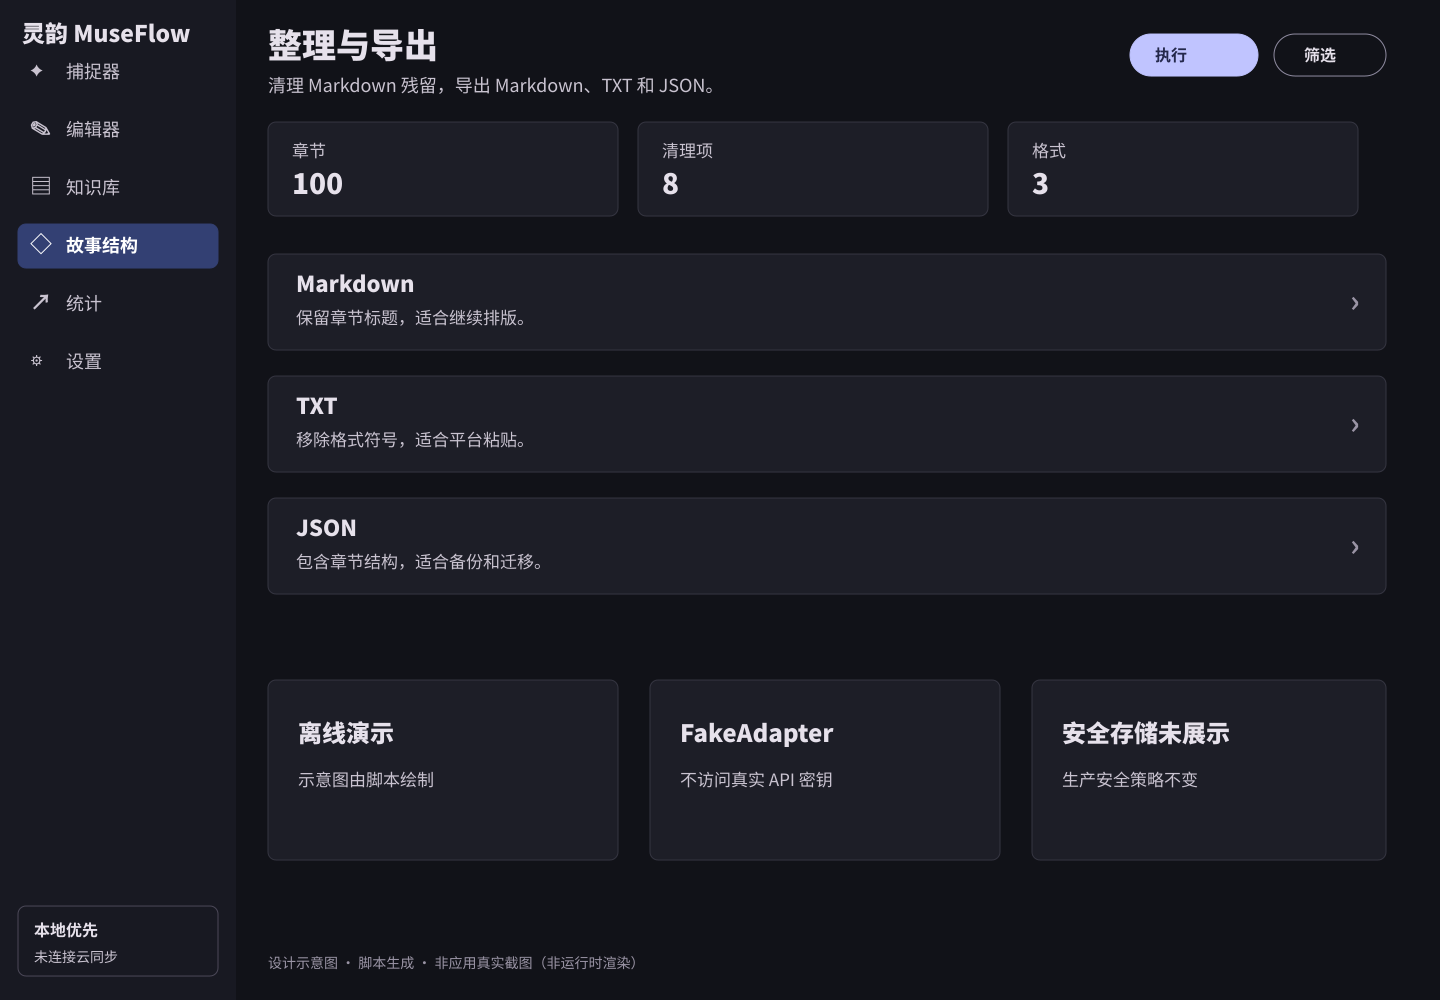
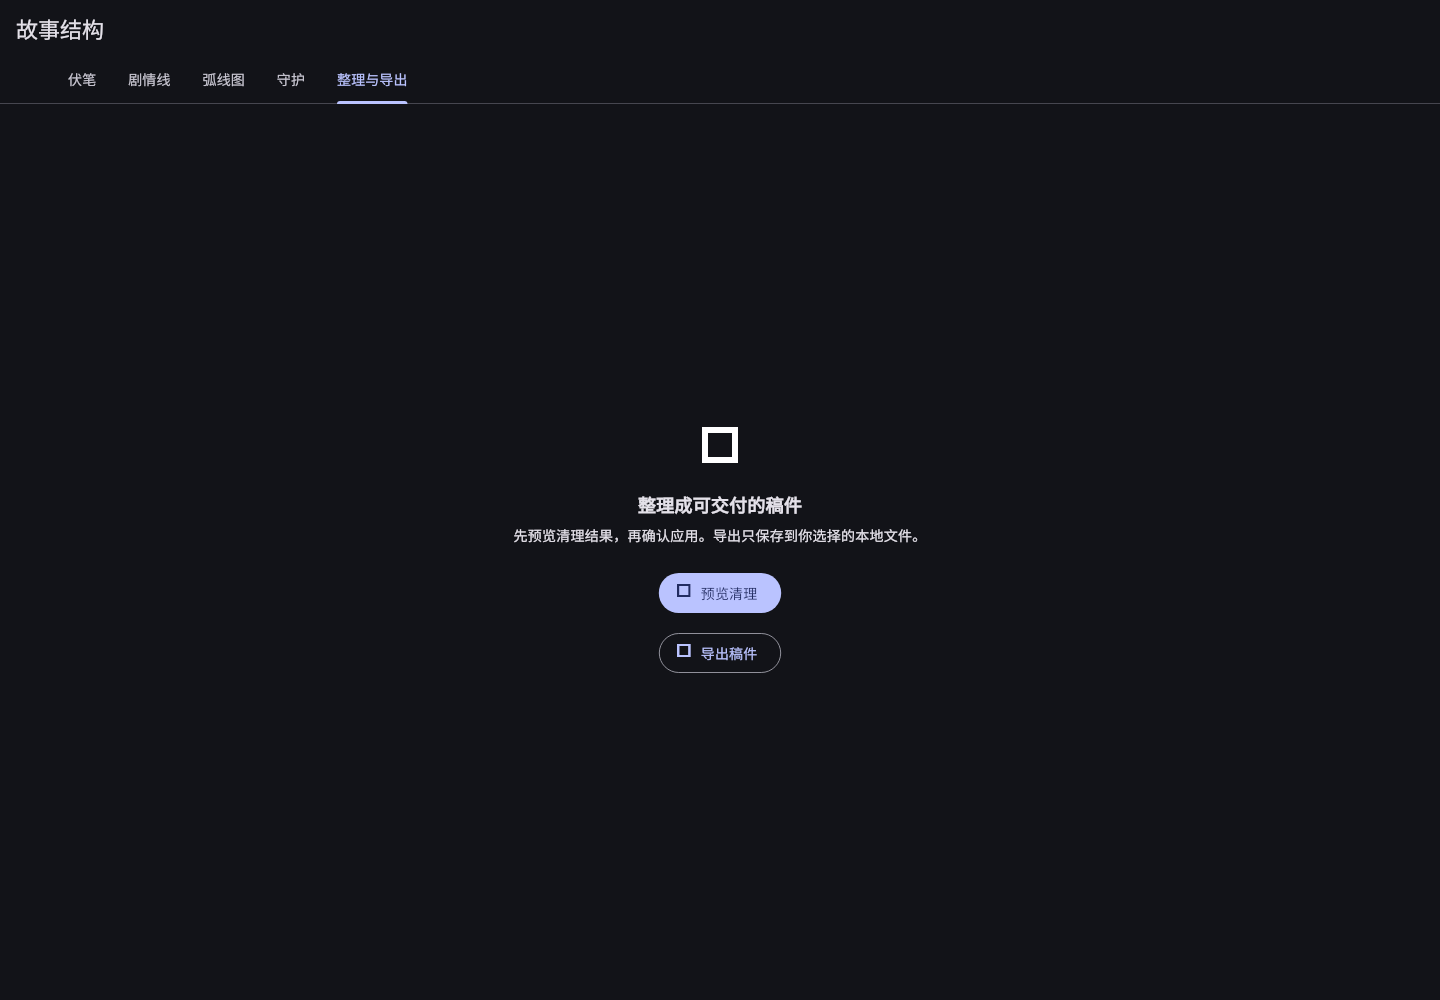
docs(readme): real golden render replaces export-cleanup mockup
README #14 整理与导出 → StoryStructurePage tab4 真实 widget golden 渲染（替代 SVG mockup）。
tap '整理与导出' tab + foreshadowing override 保初始帧。README.md/en.md disclosure 清单 4 处
加入「整理与导出(14)/Finish & export(14)」。

diff --git a/test/readme_screenshots/export_cleanup_test.dart b/test/readme_screenshots/export_cleanup_test.dart
@@ -1,0 +1,126 @@
+/// Real widget screenshot generator for the README export-cleanup image (#14).
+///
+/// Renders the **actual** [StoryStructurePage] on the 整理与导出 (finish & export)
+/// tab: tab 4 of the 5-tab structure page. `_FinishExportSection` is a purely
+/// static section (icon + headline + description + '预览清理' FilledButton +
+/// '导出稿件' OutlinedButton) with NO provider dependency on its render path —
+/// the dialogs it launches read providers only on tap.
+///
+/// Default tab is 0 (伏笔); the test switches to tab 4 by tapping the
+/// '整理与导出' tab label then `pumpAndSettle`. `foreshadowingNotifierProvider`
+/// is also overridden so the initial frame (tab 0) renders cleanly before the
+/// switch (the foreshadowing section is briefly visible during the slide).
+///
+/// Shares the bundled universal GB2312 subset `test_assets/noto_sans_sc_subset.ttf`.
+///
+/// Regenerate after changing the page or seed data:
+///   flutter test test/readme_screenshots/export_cleanup_test.dart --update-goldens
+library;
+
+import 'dart:io';
+
+import 'package:flutter/material.dart';
+import 'package:flutter/services.dart';
+import 'package:flutter_riverpod/flutter_riverpod.dart';
+import 'package:flutter_test/flutter_test.dart';
+import 'package:museflow/core/presentation/providers.dart';
+import 'package:museflow/features/story_structure/application/foreshadowing_notifier.dart';
+import 'package:museflow/features/story_structure/domain/foreshadowing_entry.dart';
+import 'package:museflow/features/story_structure/presentation/story_structure_page.dart';
+
+void main() {
+  setUpAll(() async {
+    final bytes = await File('test_assets/noto_sans_sc_subset.ttf').readAsBytes();
+    final loader = FontLoader('Noto Sans CJK SC');
+    loader.addFont(Future.value(ByteData.sublistView(bytes)));
+    await loader.load();
+  });
+
+  testWidgets('StoryStructurePage (整理与导出) renders a real 1440x1000 screenshot',
+      (tester) async {
+    tester.view.physicalSize = const Size(1440, 1000);
+    tester.view.devicePixelRatio = 1.0;
+    addTearDown(tester.view.resetPhysicalSize);
+    addTearDown(tester.view.resetDevicePixelRatio);
+
+    await tester.pumpWidget(
+      ProviderScope(
+        overrides: [
+          // Tab 0 (伏笔) is briefly visible before the switch; seed it so the
+          // initial frame is clean. The captured tab 4 is static (no provider).
+          foreshadowingNotifierProvider.overrideWith(
+            () => _SeededForeshadowingNotifier(),
+          ),
+        ],
+        child: MaterialApp(
+          debugShowCheckedModeBanner: false,
+          theme: _screenshotTheme(),
+          home: const StoryStructurePage(),
+        ),
+      ),
+    );
+    await tester.pumpAndSettle();
+
+    // Switch to tab 4 (整理与导出). Tapping the tab label drives the
+    // TabBarView slide; pumpAndSettle completes it.
+    await tester.tap(find.text('整理与导出'));
+    await tester.pumpAndSettle();
+
+    // Prove the static export section rendered.
+    expect(find.text('整理成可交付的稿件'), findsOneWidget);
+    expect(find.text('预览清理'), findsOneWidget);
+    expect(find.text('导出稿件'), findsOneWidget);
+
+    await expectLater(
+      find.byType(StoryStructurePage),
+      matchesGoldenFile('../../docs/readme/screenshots/14-export-cleanup.png'),
+    );
+  });
+}
+
+/// Seeded ForeshadowingNotifier (mirrors #10) so the initial tab-0 frame is
+/// clean before switching to tab 4.
+class _SeededForeshadowingNotifier extends ForeshadowingNotifier {
+  @override
+  Future<List<ForeshadowingEntry>> build() async {
+    final created = _created;
+    return <ForeshadowingEntry>[
+      ForeshadowingEntry(
+        id: 'f1',
+        title: '古剑低鸣之谜',
+        mode: ForeshadowingMode.detailed,
+        status: ForeshadowingStatus.planted,
+        plantedChapter: 1,
+        sourceExcerpt: '林风在山门前听见古剑低鸣',
+        createdAt: created,
+      ),
+      ForeshadowingEntry(
+        id: 'f2',
+        title: '弃剑峰旧约',
+        mode: ForeshadowingMode.simple,
+        status: ForeshadowingStatus.developing,
+        plantedChapter: 20,
+        sourceExcerpt: '第八十章前揭开弃剑峰旧约',
+        createdAt: created,
+      ),
+    ];
+  }
+}
+
+final DateTime _created = DateTime(2026, 6, 1, 9, 30);
+
+ThemeData _screenshotTheme() {
+  final colorScheme = ColorScheme.fromSeed(
+    seedColor: Colors.indigo,
+    brightness: Brightness.dark,
+  );
+  final base = Typography.material2021().white.apply(fontFamily: 'Noto Sans CJK SC');
+  return ThemeData(
+    colorScheme: colorScheme,
+    useMaterial3: true,
+    textTheme: base.apply(
+      bodyColor: colorScheme.onSurface,
+      displayColor: colorScheme.onSurface,
+    ),
+  );
+}

diff --git a/README.en.md b/README.en.md
@@ -36,7 +36,7 @@ The Chinese name, 灵韵, means the spirit and rhythm of inspiration. MuseFlow c
 
 ## User Journey & UI Mockups
 
-The images below illustrate each feature module. The **Manuscript library** (1st image), the **Capture inbox** (2nd image), the **Character cards** (6th image), the **World settings** (7th image), the **Skill rules** (9th image), the **Foreshadowing** (10th image), the **Writing stats** (15th image), the **Token audit** (16th image), the **Analysis reports hub** (17th image), the **Report details** (18th image), the **Settings** (19th image), the **AI providers** (20th image) and the **AI phrase filter** (21st image) are real widget renders, deterministically produced by the golden tests under `test/readme_screenshots/` (with a bundled Noto Sans CJK SC subset for cross-platform-consistent Chinese, using offline demo data); the rest are design mockups programmatically drawn by `scripts/generate_readme_screenshots.mjs` (SVG → PNG, not live renders). We follow a xianxia serial author's journey to walk through idea capture, manuscript management, chapter writing, knowledge management, structure tracking, analytics, and model configuration. All images use offline demo data and never read real API keys; real screenshots are being migrated page-by-page from mockups via golden tests.
+The images below illustrate each feature module. The **Manuscript library** (1st image), the **Capture inbox** (2nd image), the **Character cards** (6th image), the **World settings** (7th image), the **Skill rules** (9th image), the **Foreshadowing** (10th image), the **Finish & export** (14th image), the **Writing stats** (15th image), the **Token audit** (16th image), the **Analysis reports hub** (17th image), the **Report details** (18th image), the **Settings** (19th image), the **AI providers** (20th image) and the **AI phrase filter** (21st image) are real widget renders, deterministically produced by the golden tests under `test/readme_screenshots/` (with a bundled Noto Sans CJK SC subset for cross-platform-consistent Chinese, using offline demo data); the rest are design mockups programmatically drawn by `scripts/generate_readme_screenshots.mjs` (SVG → PNG, not live renders). We follow a xianxia serial author's journey to walk through idea capture, manuscript management, chapter writing, knowledge management, structure tracking, analytics, and model configuration. All images use offline demo data and never read real API keys; real screenshots are being migrated page-by-page from mockups via golden tests.
 
 ### 1. Manage Multiple Works
 
@@ -167,7 +167,7 @@ flutter test
 flutter build web --release
 ```
 
-This README's showcase material: the **Manuscript library** (01), the **Capture inbox** (02), the **Character cards** (06), the **World settings** (07), the **Skill rules** (09), the **Foreshadowing** (10), the **Writing stats** (15), the **Token audit** (16), the **Analysis reports hub** (17), the **Report details** (18), the **Settings** (19), the **AI providers** (20) and the **AI phrase filter** (21) are real widget renders (generated by golden tests), the rest are design mockups drawn by `scripts/generate_readme_screenshots.mjs` (SVG → PNG). All use offline demo data with no real API keys; real screenshots are being migrated page-by-page from mockups via golden tests.
+This README's showcase material: the **Manuscript library** (01), the **Capture inbox** (02), the **Character cards** (06), the **World settings** (07), the **Skill rules** (09), the **Foreshadowing** (10), the **Finish & export** (14), the **Writing stats** (15), the **Token audit** (16), the **Analysis reports hub** (17), the **Report details** (18), the **Settings** (19), the **AI providers** (20) and the **AI phrase filter** (21) are real widget renders (generated by golden tests), the rest are design mockups drawn by `scripts/generate_readme_screenshots.mjs` (SVG → PNG). All use offline demo data with no real API keys; real screenshots are being migrated page-by-page from mockups via golden tests.
 
 ## v1.3 User Journey Showcase
 